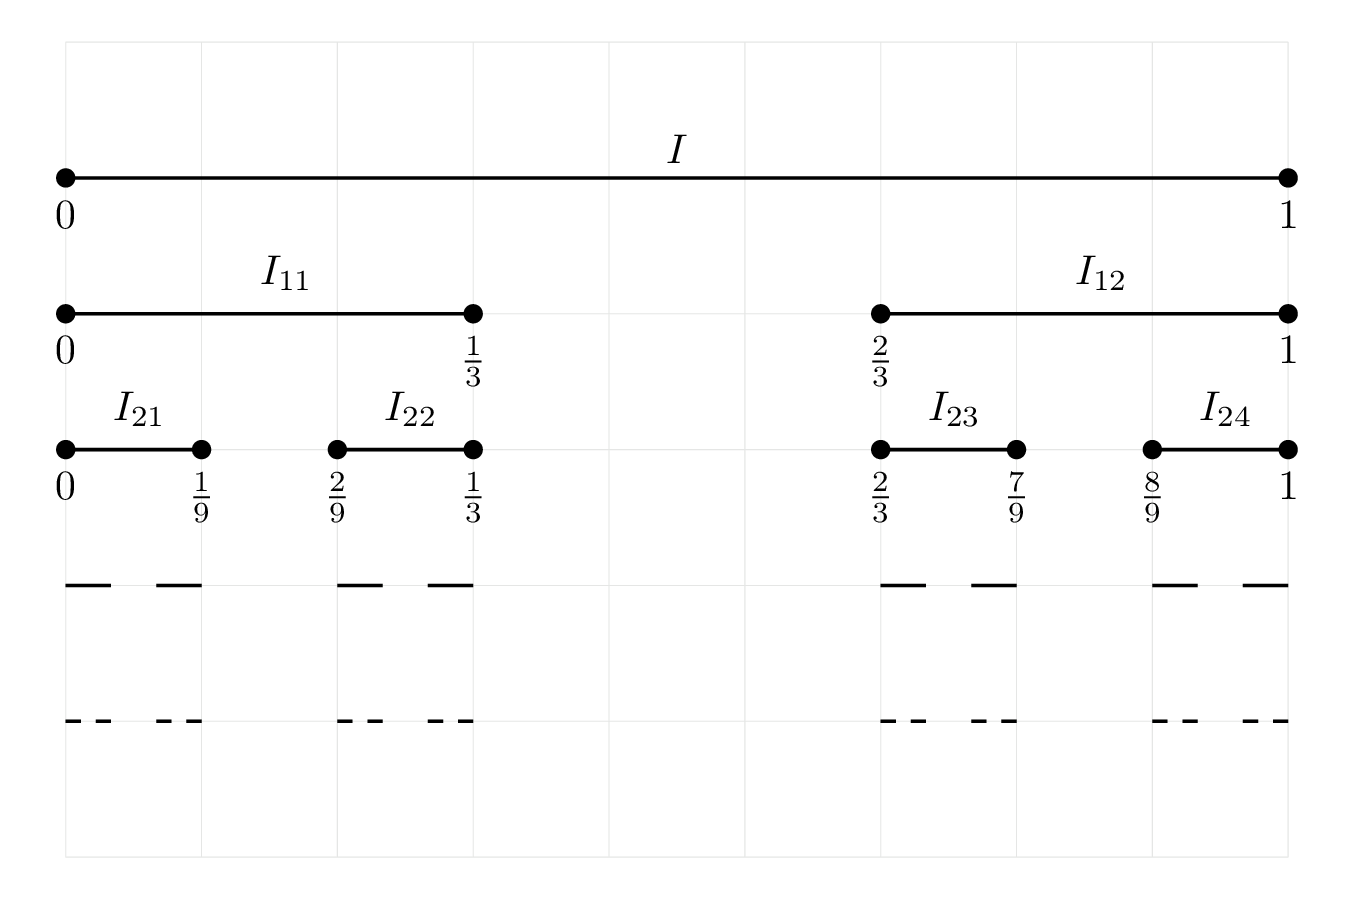
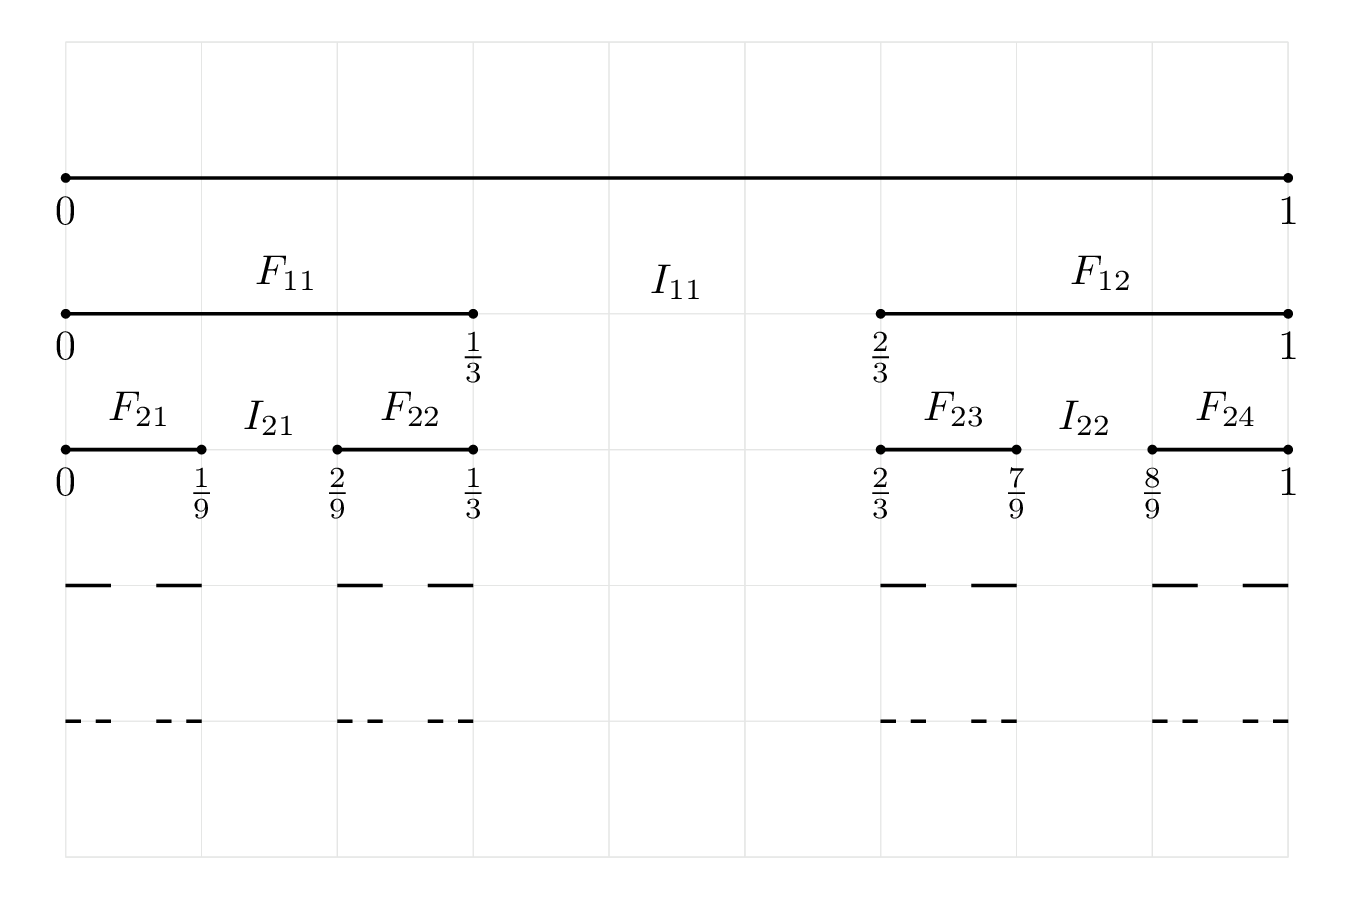
update

diff --git a/src/images/2026-4/cantor-set.tex b/src/images/2026-4/cantor-set.tex
@@ -7,40 +7,43 @@
 
 \begin{tikzpicture}[scale=1.15]
 \draw[help lines, color=gray!20] (0,-5) grid (9,1);
-	\fill[black] (0,0) circle (2pt) node[below=2pt] {$0$};	
-	\fill[black] (9,0) circle (2pt) node[below=2pt] {$1$};
+	\draw[help lines, color=gray!20] (0,-5) grid (9,1);
+	\fill[black] (0,0) circle (1pt) node[below=1pt] {$0$};	
+	\fill[black] (9,0) circle (1pt) node[below=1pt] {$1$};
 
   % 绘制各层康托尔集（从上到下越来越精细）
   % 第0层（最上面）
   \draw[thick] (0,0) -- (9,0);
-  \node[above] at (4.5,0) {$I$};
   % 第1层
   \draw[thick] (0,-1) -- (3,-1)
-  	node[left=45pt,above=2pt] {$I_{11}$};
+  	node[left=45pt,above=2pt] {$F_{11}$};
   \draw[thick] (6,-1) -- (9,-1) 
-    node[left=45pt,above=2pt] {$I_{12}$};
-	\fill[black] (0,-1) circle (2pt) node[below=2pt] {$0$};	
-	\fill[black] (9,-1) circle (2pt) node[below=2pt] {$1$};
-	\fill[black] (3,-1) circle (2pt) node[below=2pt] {$\frac13$};	
-	\fill[black] (6,-1) circle (2pt) node[below=2pt] {$\frac23$};
+    node[left=45pt,above=2pt] {$F_{12}$};
+    \node[above] at (4.5,-1) {$I_{11}$};
+	\fill[black] (0,-1) circle (1pt) node[below=1pt] {$0$};	
+	\fill[black] (9,-1) circle (1pt) node[below=1pt] {$1$};
+	\fill[black] (3,-1) circle (1pt) node[below=1pt] {$\frac13$};	
+	\fill[black] (6,-1) circle (1pt) node[below=1pt] {$\frac23$};
 	
   % 第2层
   \draw[thick] (0,-2)   -- (1,-2)
-  	node[left=15pt,above=2pt] {$I_{21}$};
+  	node[left=15pt,above=2pt] {$F_{21}$};
   \draw[thick] (2,-2) -- (3,-2)
-  	node[left=15pt,above=2pt] {$I_{22}$};
+  	node[left=15pt,above=2pt] {$F_{22}$};
   \draw[thick] (6,-2) -- (7,-2)
-  	node[left=15pt,above=2pt] {$I_{23}$};
+  	node[left=15pt,above=2pt] {$F_{23}$};
   \draw[thick] (8,-2) -- (9,-2) 
-    node[left=15pt,above=2pt] {$I_{24}$};
-    \fill[black] (0,-2) circle (2pt) node[below=2pt] {$0$};	
-	\fill[black] (9,-2) circle (2pt) node[below=2pt] {$1$};
-	\fill[black] (3,-2) circle (2pt) node[below=2pt] {$\frac13$};	
-	\fill[black] (6,-2) circle (2pt) node[below=2pt] {$\frac23$};
-	\fill[black] (1,-2) circle (2pt) node[below=2pt] {$\frac19$};	
-	\fill[black] (2,-2) circle (2pt) node[below=2pt] {$\frac29$};
-	\fill[black] (7,-2) circle (2pt) node[below=2pt] {$\frac79$};	
-	\fill[black] (8,-2) circle (2pt) node[below=2pt] {$\frac89$};
+    node[left=15pt,above=2pt] {$F_{24}$};
+    \node[above] at (1.5,-2) {$I_{21}$};
+    \node[above] at (7.5,-2) {$I_{22}$};
+    \fill[black] (0,-2) circle (1pt) node[below=1pt] {$0$};	
+	\fill[black] (9,-2) circle (1pt) node[below=1pt] {$1$};
+	\fill[black] (3,-2) circle (1pt) node[below=1pt] {$\frac13$};	
+	\fill[black] (6,-2) circle (1pt) node[below=1pt] {$\frac23$};
+	\fill[black] (1,-2) circle (1pt) node[below=1pt] {$\frac19$};	
+	\fill[black] (2,-2) circle (1pt) node[below=1pt] {$\frac29$};
+	\fill[black] (7,-2) circle (1pt) node[below=1pt] {$\frac79$};	
+	\fill[black] (8,-2) circle (1pt) node[below=1pt] {$\frac89$};
 
   % 第3层
   \draw[thick] (0,-3)   -- (0.333,-3);
@@ -73,5 +76,4 @@
   \draw[thick] (8.667,-4) -- (8.778,-4);
   \draw[thick] (8.889,-4) -- (9,-4);
 \end{tikzpicture}
-
 \end{document}

diff --git a/posts/2026-03-有关康托尔集的基数.md b/posts/2026-03-有关康托尔集的基数.md
@@ -5,7 +5,7 @@ date: 2026-04-01
 
 # 有关康托尔集的基数
 
-在实分析的学习中曾先后计算过实数集的基数和康托尔集的基数，我在最初接触时因为两者证明的相似而混淆过其中的证明步骤，在这里做笔记辅助记忆，以下是实数集的基数的计算
+在实分析的学习中曾先后计算过实数集的基数和康托尔集的基数，我在最初接触时因为两者证明的相似而混淆过其中的证明步骤，在这里记录笔记辅助记忆，以下是实数集的基数的计算
 
 ## 实数集的基数
 
@@ -38,11 +38,18 @@ date: 2026-04-01
 	如果我们不要求有无穷个 $a_n$ 是 $1$ （例如 $\frac{1}{2}$ 可以用 $0.011\dot{1}$ 和 $0.1$ 两种二进制表述 ），那么会有两种不同的序列表示同一个实数那么此映射关系将不满足双射条件，通过建立此条件我们就建立了 $(0,1]$ 和集合 $ S=\lbrace(a_1, a_2,\cdots, a_n, \cdots): \text{每个} \ a_n\  \text{是}\  0\  \text{或}\ 1\ \text{且其中无穷多个}\ a_n\ \text{是}\ 1\  \rbrace $ 的双射关系
 
 
-2. 令 $T=\lbrace(a_1, a_2,\cdots, a_n, \cdots): \text{每个} \ a_n\ \text{是} \ 0\  \text{或}\ 1\  \text{且其中只有限多个} \ a_n\  \text{是}\ 1 \rbrace$ 和 $R=\lbrace(a_1, a_2,\cdots, a_n, \cdots): \text{每} \ a_n\ \text{是}\ 0\ \text{或} \ 1\rbrace$ ，我们可以看出集合 $R$ 与 }$\lbrace0,1\rbrace^{\mathbb{N}}$ 相等，显然 $\lvert R\rvert=2^{\aleph_0}, \lvert T\rvert=\aleph_0$ 且 $S\cup T= R$ ，由基数的基本定理 ，我们有 （默认接受连续统假设）
+2. 令 $T=\lbrace(a_1, a_2,\cdots, a_n, \cdots): \text{每个} \ a_n\ \text{是} \ 0\  \text{或}\ 1\  \text{且其中只有限多个} \ a_n\  \text{是}\ 1 \rbrace$ 和 $\mathbb{R}=\lbrace(a_1, a_2,\cdots, a_n, \cdots): \text{每} \ a_n\ \text{是}\ 0\ \text{或} \ 1\rbrace$ ，我们可以看出集合 $R$ 与 }$\lbrace0,1\rbrace^{\mathbb{N}}$ 相等，显然 $\lvert \mathbb{R}\rvert=2^{\aleph_0}, \lvert T\rvert=\aleph_0$ 且 $S\cup T= R$ ，由基数的基本定理 ，我们有 （默认接受连续统假设）
 $$
-   \lvert S\rvert=\lvert S\cup T\rvert =\lvert R\rvert=2^{\aleph_0}=\aleph_1
+\lvert S\rvert=\lvert S\cup T\rvert =\lvert \mathbb{R}\rvert=2^{\aleph_0}=\aleph_1
 $$
 
 ## 康托尔集的基数
+从闭区间 $[0,1]$ 开始，我们把该区间三等分，并去掉中间的开区间 $I_{11} = \left(\frac13,\frac23\right)$，余下如图两个闭区间 $F_{11}=\left[0,\frac13\right]$ 和 $F_{2}=\left[\frac23,1\right]$，分别记为 $F_{11}$ 和 $F_{12}$。然后，再把这两个区间的中间三分之一都去掉，留下四个区间 $F_{21},F_{22},F_{23},F_{24}$ ，接下来不断重复以上过程
 
 ![康托尔集构造](/src/images/2026-4/cantor-set.png)
+
+我们把经过上述所有过程后剩下的点构成的集合称为康托（ Cantor） 三分集，记作 $\mathcal{C}$，显然
+\[
+	\mathcal{C} = \bigcap_{i=1}^\infty\left(\bigcup_{j=1}^{2^i}F_{ij}\right)
+\]
+不难看出，$\mathcal{C}$ 是非空闭集，因为上述每个闭区间 $I$ 的端点必然不会被去掉，从而必属于 $\mathcal{C}$
